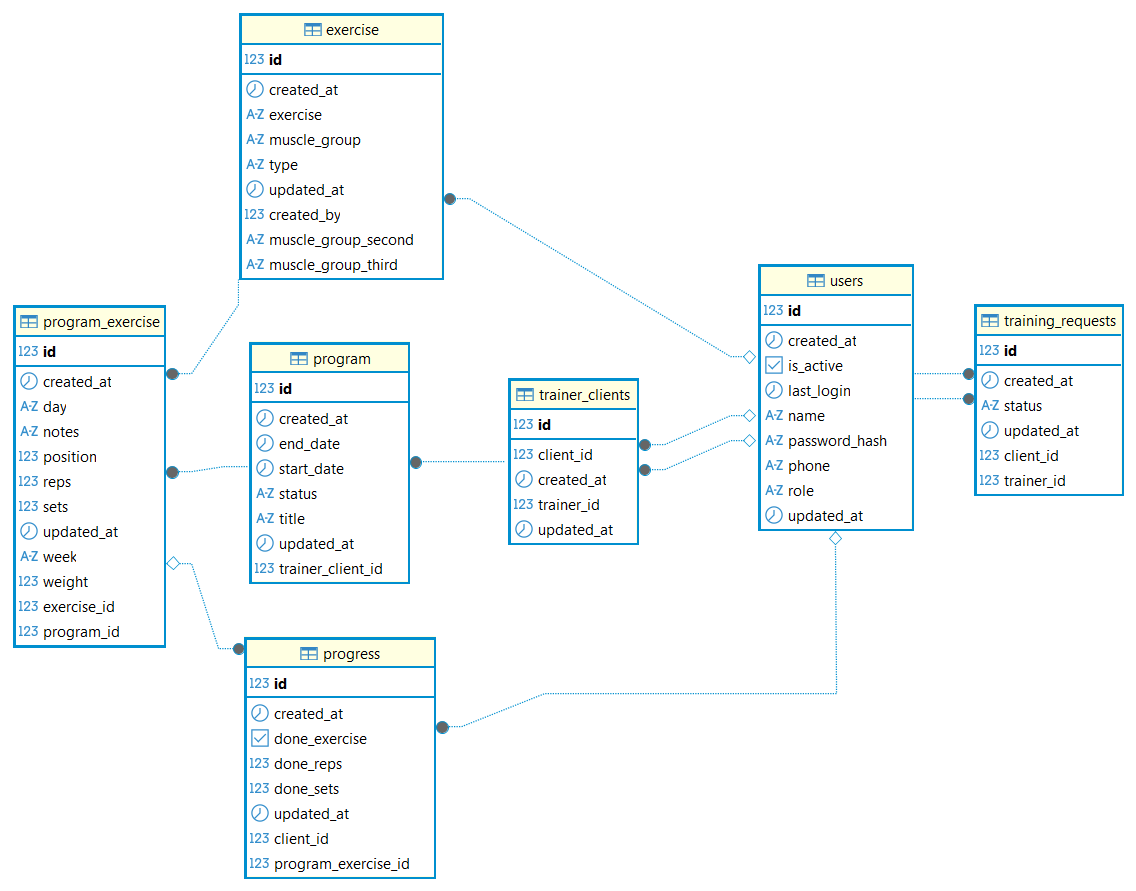
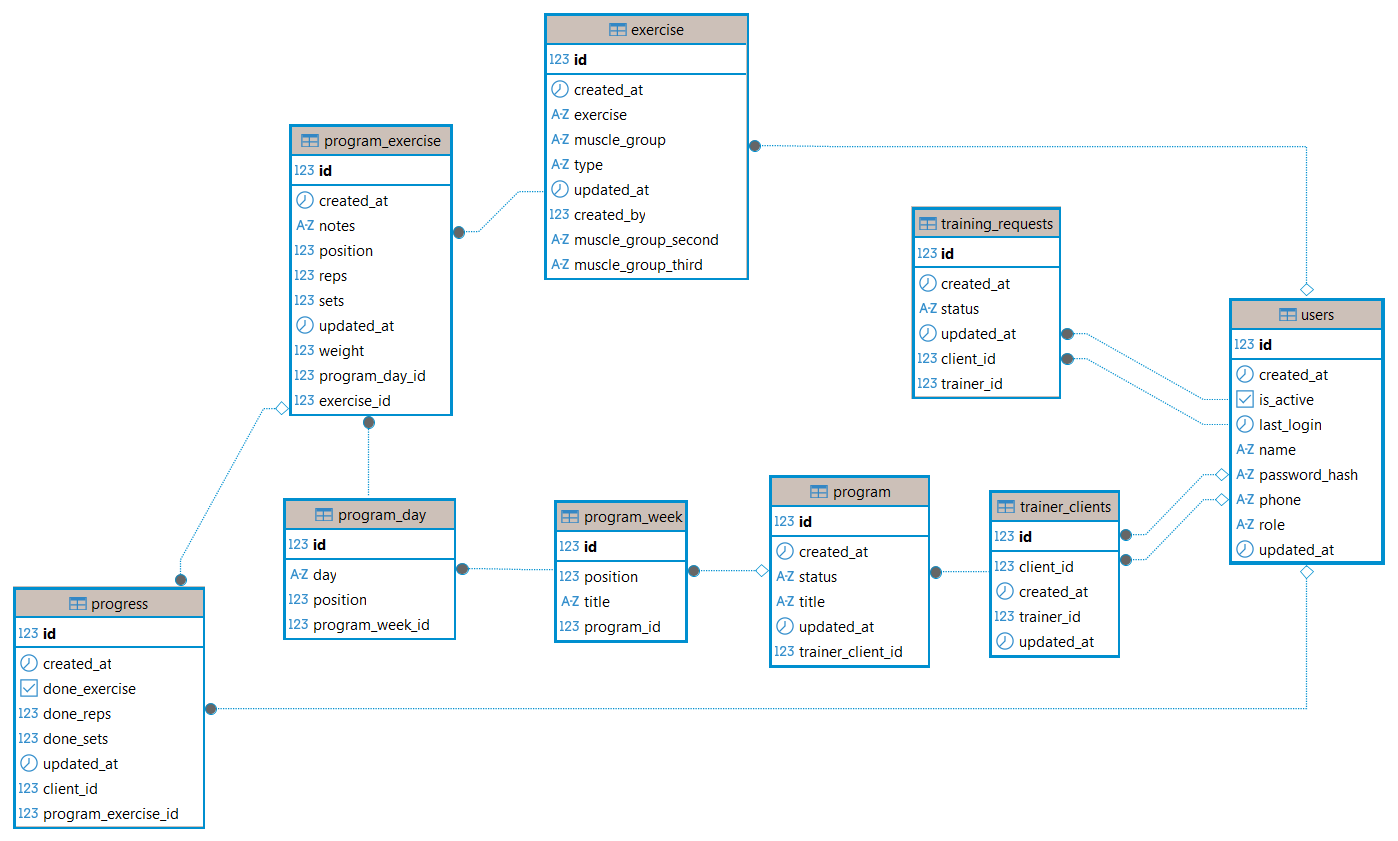
database corr + add tables

diff --git a/backend/src/main/java/com/fitguru/backend/program/entity/ProgramDay.java b/backend/src/main/java/com/fitguru/backend/program/entity/ProgramDay.java
@@ -1,0 +1,54 @@
+package com.fitguru.backend.program.entity;
+
+import java.util.List;
+import java.util.ArrayList;
+
+import com.fitguru.backend.program.entity.enums.TrainingDay;
+
+import jakarta.persistence.*;
+
+import lombok.AllArgsConstructor;
+import lombok.Builder;
+import lombok.Getter;
+import lombok.NoArgsConstructor;
+import lombok.Setter;
+
+@Entity
+@Table(
+    name = "program_day",
+    indexes = {
+        @Index(
+            name = "idx_program_day_week_position",
+            columnList = "program_week_id, position"
+        )
+    }
+)
+@Getter
+@Setter
+@NoArgsConstructor
+@AllArgsConstructor
+@Builder
+public class ProgramDay {
+
+    @Id
+    @GeneratedValue(strategy = GenerationType.IDENTITY)
+    private Long id;
+
+    @ManyToOne(fetch = FetchType.LAZY)
+    @JoinColumn(name = "program_week_id", nullable = false)
+    private ProgramWeek week;
+
+    @Enumerated(EnumType.STRING)
+    @Column(nullable = false)
+    private TrainingDay day;
+
+    private Integer position;
+
+    @Builder.Default
+    @OneToMany(
+        mappedBy = "day", 
+        cascade = CascadeType.ALL, 
+        orphanRemoval = true
+    )
+    private List<ProgramExercise> exercises = new ArrayList<>();
+}

diff --git a/backend/src/main/java/com/fitguru/backend/program/entity/ProgramWeek.java b/backend/src/main/java/com/fitguru/backend/program/entity/ProgramWeek.java
@@ -1,0 +1,50 @@
+package com.fitguru.backend.program.entity;
+
+import java.util.List;
+import java.util.ArrayList;
+
+import jakarta.persistence.*;
+
+import lombok.AllArgsConstructor;
+import lombok.Builder;
+import lombok.Getter;
+import lombok.NoArgsConstructor;
+import lombok.Setter;
+
+@Entity
+@Table(
+    name = "program_week",
+    indexes = {
+        @Index(
+            name = "idx_program_week_program_position",
+            columnList = "program_id, position"
+        )
+    }
+)
+@Getter
+@Setter
+@NoArgsConstructor
+@AllArgsConstructor
+@Builder
+public class ProgramWeek {
+
+    @Id
+    @GeneratedValue(strategy = GenerationType.IDENTITY)
+    private Long id;
+
+    @ManyToOne(fetch = FetchType.LAZY)
+    @JoinColumn(name = "program_id", nullable = false)
+    private Program program;
+
+    @Builder.Default
+    @OneToMany(
+        mappedBy = "week", 
+        cascade = CascadeType.ALL, 
+        orphanRemoval = true
+    )
+    private List<ProgramDay> days = new ArrayList<>();
+
+    private String title;
+
+    private Integer position;
+}

diff --git a/backend/src/main/java/com/fitguru/backend/program/entity/enums/TrainingDay.java b/backend/src/main/java/com/fitguru/backend/program/entity/enums/TrainingDay.java
@@ -1,0 +1,11 @@
+package com.fitguru.backend.program.entity.enums;
+
+public enum TrainingDay {
+    MONDAY,
+    TUESDAY,
+    WEDNESDAY,
+    THURSDAY,
+    FRIDAY,
+    SATURDAY,
+    SUNDAY
+}

diff --git a/backend/src/main/java/com/fitguru/backend/program/entity/Program.java b/backend/src/main/java/com/fitguru/backend/program/entity/Program.java
@@ -9,7 +9,6 @@ import java.util.ArrayList;
 
 import com.fitguru.backend.trainer.entity.TrainerClient;
 import com.fitguru.backend.program.entity.enums.ProgramStatus;
-import com.fitguru.backend.program_exercise.entity.ProgramExercise;
 
 @Entity
 @Table(
@@ -36,10 +35,6 @@ public class Program {
 
     private String title;
 
-    private LocalDateTime startDate;
-
-    private LocalDateTime endDate;
-
     @Enumerated(EnumType.STRING)
     @Column(nullable = false)
     private ProgramStatus status;
@@ -65,9 +60,9 @@ public class Program {
     @Builder.Default
     @OneToMany(
         mappedBy = "program",
-        cascade = CascadeType.ALL,
+        cascade = CascadeType.ALL, 
         orphanRemoval = true
     )
     
-    private List<ProgramExercise> exercises = new ArrayList<>();
+    private List<ProgramWeek> weeks = new ArrayList<>();
 }

diff --git a/backend/src/main/java/com/fitguru/backend/progress/entity/Progress.java b/backend/src/main/java/com/fitguru/backend/progress/entity/Progress.java
@@ -9,8 +9,8 @@ import lombok.Getter;
 import lombok.NoArgsConstructor;
 import lombok.Setter;
 
+import com.fitguru.backend.program.entity.ProgramExercise;
 import com.fitguru.backend.user.entity.User;
-import com.fitguru.backend.program_exercise.entity.ProgramExercise;
 
 @Entity
 @Table(name = "progress",    

diff --git a/backend/src/main/java/com/fitguru/backend/program/entity/enums/ProgramStatus.java b/backend/src/main/java/com/fitguru/backend/program/entity/enums/ProgramStatus.java
@@ -3,5 +3,6 @@ package com.fitguru.backend.program.entity.enums;
 public enum ProgramStatus {
     DRAFT,
     SENT,
+    FINISHED,
     ARCHIVED
 }